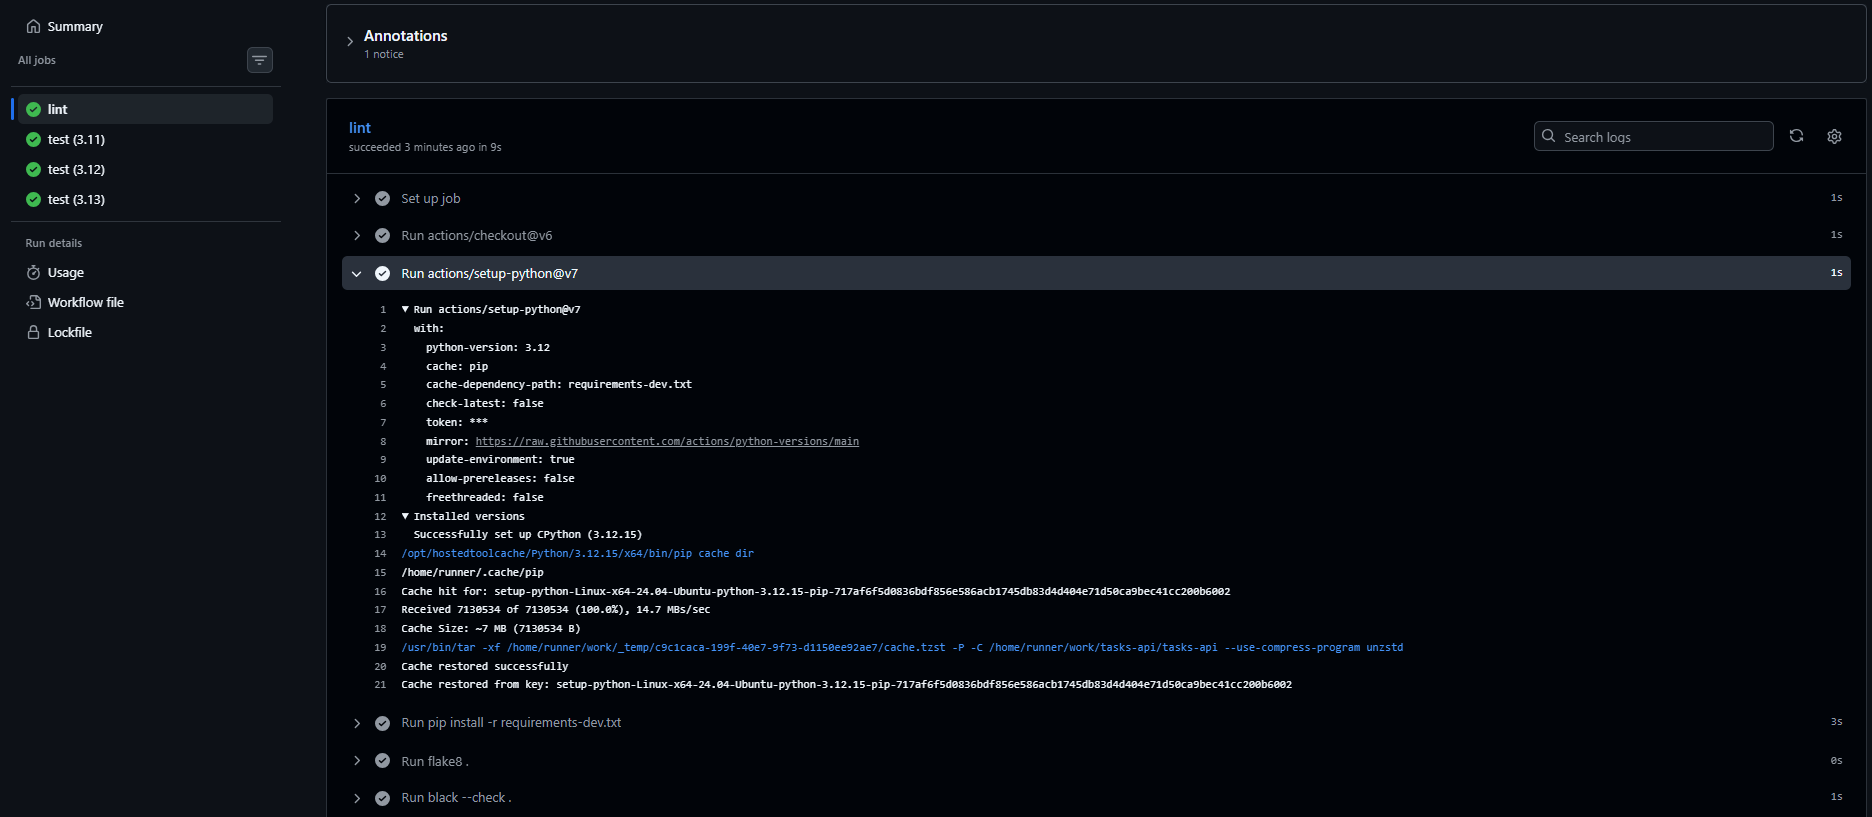
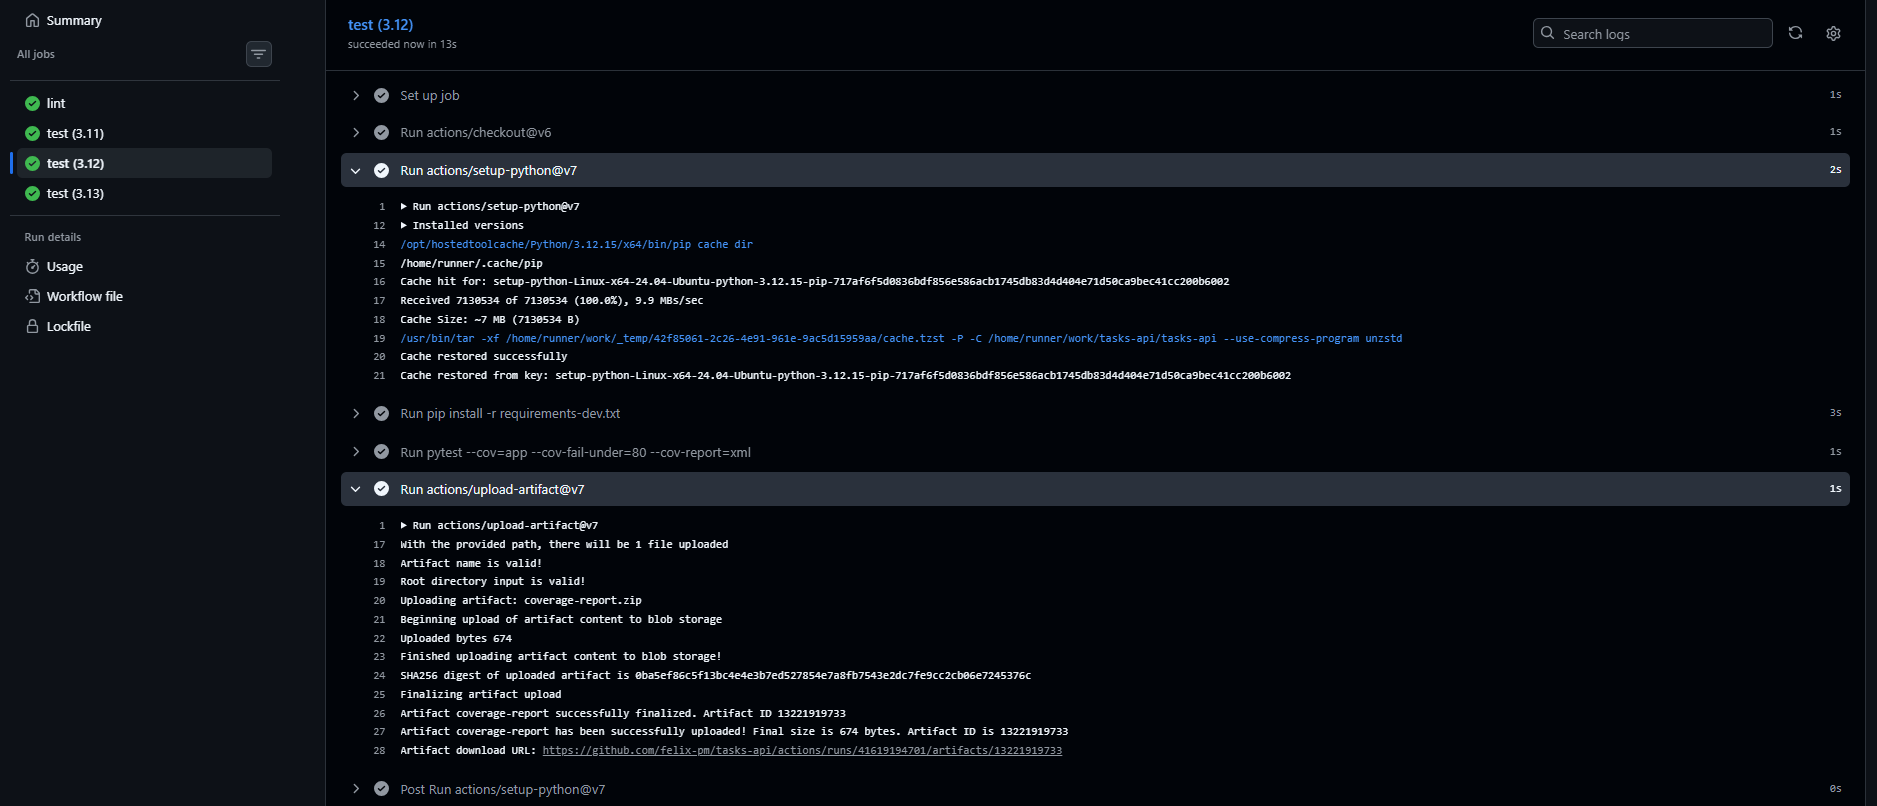
add explanations for CI concepts and update logic.py with import statement

diff --git a/app/logic.py b/app/logic.py
@@ -1,3 +1,6 @@
+import os
+
+
 """Logique métier de l'application (fonctions pures, faciles à tester)."""
 
 MAX_TITLE_LENGTH = 80

diff --git a/docs/TP2.md b/docs/TP2.md
@@ -53,6 +53,12 @@ On sépare lint et test en deux jobs pour qu’ils tournent en parallèle et que
 
 **Questions :** Pourquoi tester sur plusieurs versions de Python ? Que gagne-t-on avec le cache ? Un artefact, c'est quoi ?
 
+Plusieurs versions : pour vérifier que le code marche quelle que soit la version de Python de l’utilisateur.
+
+Cache : on ne retélécharge pas les dépendances à chaque fois, donc la CI va plus vite.
+
+Artefact : un fichier produit par un job (rapport, build…) qu’on garde pour le télécharger ou le réutiliser.
+
 ---
 
 ## Partie 3 : Protéger la branche main (15 min)
